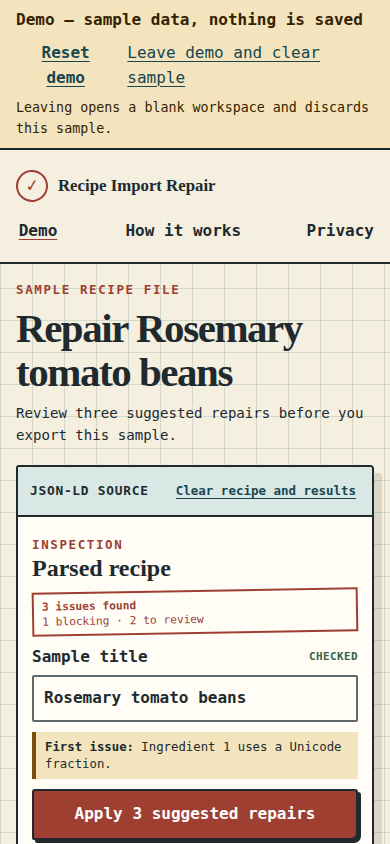
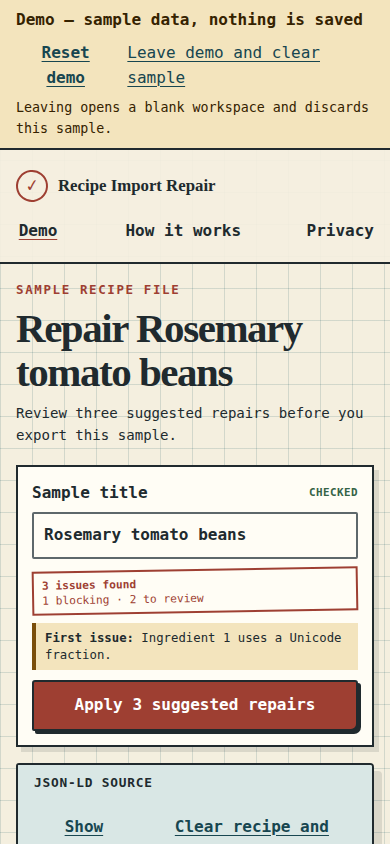
fix: keep demo reading order accessible

Changed region(s): [[0.0308, 0.5545, 0.9846, 1.0]]

diff --git a/src/main.ts b/src/main.ts
@@ -352,8 +352,10 @@ function homePage(): string {
 }
 
 function demoPage(): string {
+  const compactDemo = window.matchMedia('(max-width: 680px)').matches;
   return `<main id="main" class="demo-main">
     <section class="demo-heading"><p class="eyebrow">Sample recipe file</p><h1>Repair Rosemary tomato beans</h1><p>Review three suggested repairs before you export this sample.</p></section>
+    ${compactDemo ? demoQuickStart() : ''}
     ${workbench(true)}
   </main>`;
 }
@@ -379,6 +381,17 @@ function demoIssuePreview(): string {
   const firstIssue = issues[0];
   if (!firstIssue) return '';
   return `<p class="demo-issue-preview"><strong>First issue:</strong> ${escapeHtml(firstIssue.message)}</p>`;
+}
+
+function demoQuickStart(): string {
+  if (!recipe) return '';
+  const availableRepairs = issues.filter((item) => item.repair).length;
+  return `<section class="demo-quick-start" aria-label="Sample recipe status">
+    <label class="field full"><span>Sample title ${fieldStatus('title')}</span><input id="demo-title" data-field="title" value="${escapeHtml(recipe.title)}" /></label>
+    ${issueSummary()}
+    ${demoIssuePreview()}
+    <button class="button proof-button" data-action="apply-all" ${availableRepairs ? '' : 'disabled'}>Apply ${availableRepairs} suggested ${availableRepairs === 1 ? 'repair' : 'repairs'}</button>
+  </section>`;
 }
 
 function fieldStatus(field: string): string {
@@ -435,7 +448,7 @@ function workbench(expanded: boolean): string {
       </div>
       <div class="result-panel">
         <div class="panel-heading result-heading"><div><p class="step-label">Inspection</p><${panelHeading}>Parsed recipe</${panelHeading}></div>${recipe ? issueSummary() : ''}</div>
-        ${recipe ? `${expanded ? `<label class="field full demo-title-field"><span>Sample title ${fieldStatus('title')}</span><input id="demo-title" data-field="title" value="${escapeHtml(recipe.title)}" /></label>${demoIssuePreview()}` : ''}<div class="issue-actions"><button class="button proof-button" data-action="apply-all" ${availableRepairs ? '' : 'disabled'}>Apply ${availableRepairs} suggested ${availableRepairs === 1 ? 'repair' : 'repairs'}</button><button class="button secondary" data-action="undo" ${editHistory.length ? '' : 'disabled'}>Undo last change</button></div>${issueList()}${editor(!expanded)}<div class="export-strip"><div class="export-copy"><strong>Download repaired recipe</strong><label for="export-format">Export format</label><select id="export-format" data-export-format><option value="jsonld"${exportFormat === 'jsonld' ? ' selected' : ''}>Recipe JSON-LD (.json)</option><option value="original"${exportFormat === 'original' ? ' selected' : ''}>Repaired original format (${format})</option><option value="details"${exportFormat === 'details' ? ' selected' : ''}>Repair details (.json)</option></select><span>Recipe JSON-LD uses Schema.org Recipe fields. Repaired original keeps this file's ${format} format.</span>${canExport(recipe) ? '' : '<span>Fix blocking issues before export.</span>'}</div><button class="button export-button" data-action="export" ${canExport(recipe) ? '' : 'disabled'}>Download selected file</button></div>${repairLog.length ? `<details class="repair-log"><summary>Repair log (${repairLog.length})</summary><ol>${repairLog.map((item) => `<li>${escapeHtml(item)}</li>`).join('')}</ol></details>` : ''}` : `<div class="empty-sheet"><span aria-hidden="true">↳</span><h3>Your parsed fields will appear here</h3><p>Paste recipe text or choose a file. Then inspect it.</p></div>`}
+        ${recipe ? `<div class="issue-actions"><button class="button proof-button${expanded ? ' detail-apply' : ''}" data-action="apply-all" ${availableRepairs ? '' : 'disabled'}>Apply ${availableRepairs} suggested ${availableRepairs === 1 ? 'repair' : 'repairs'}</button><button class="button secondary" data-action="undo" ${editHistory.length ? '' : 'disabled'}>Undo last change</button></div>${issueList()}${editor()}<div class="export-strip"><div class="export-copy"><strong>Download repaired recipe</strong><label for="export-format">Export format</label><select id="export-format" data-export-format><option value="jsonld"${exportFormat === 'jsonld' ? ' selected' : ''}>Recipe JSON-LD (.json)</option><option value="original"${exportFormat === 'original' ? ' selected' : ''}>Repaired original format (${format})</option><option value="details"${exportFormat === 'details' ? ' selected' : ''}>Repair details (.json)</option></select><span>Recipe JSON-LD uses Schema.org Recipe fields. Repaired original keeps this file's ${format} format.</span>${canExport(recipe) ? '' : '<span>Fix blocking issues before export.</span>'}</div><button class="button export-button" data-action="export" ${canExport(recipe) ? '' : 'disabled'}>Download selected file</button></div>${repairLog.length ? `<details class="repair-log"><summary>Repair log (${repairLog.length})</summary><ol>${repairLog.map((item) => `<li>${escapeHtml(item)}</li>`).join('')}</ol></details>` : ''}` : `<div class="empty-sheet"><span aria-hidden="true">↳</span><h3>Your parsed fields will appear here</h3><p>Paste recipe text or choose a file. Then inspect it.</p></div>`}
       </div>
     </div>
   </section>`;
@@ -560,6 +573,7 @@ app.addEventListener('change', async (event) => {
 window.addEventListener('popstate', () => changeRoute('pop'));
 window.addEventListener('online', () => { isOffline = false; render(); });
 window.addEventListener('offline', () => { isOffline = true; render(); });
+window.matchMedia('(max-width: 680px)').addEventListener('change', () => { if (route === 'demo') render(); });
 
 if ('serviceWorker' in navigator && import.meta.env.PROD) {
   window.addEventListener('load', () => navigator.serviceWorker.register('/service-worker.js').catch(() => undefined));

diff --git a/src/styles.css b/src/styles.css
@@ -175,8 +175,8 @@ summary { display: inline-flex; min-height: 44px; align-items: center; color: va
 .demo-main { max-width: 1440px; margin: 0 auto; padding: 64px clamp(16px, 5vw, 80px); }
 .demo-heading { margin-bottom: 36px; }
 .demo-heading h1 { margin-bottom: 16px; font-size: clamp(2.4rem, 5vw, 4.8rem); }
-.demo-title-field { margin: 0 0 14px; }
 .demo-issue-preview { display: none; }
+.demo-quick-start { display: none; }
 .prose-page { width: min(850px, calc(100% - 32px)); min-height: 65vh; margin: 0 auto; padding: 72px 0 96px; }
 .prose-page h1 { font-size: clamp(2.5rem, 6vw, 4.8rem); }
 .prose-page section { max-width: 68ch; margin-top: 48px; padding-left: 24px; border-left: 3px solid var(--proof); }
@@ -218,19 +218,10 @@ summary { display: inline-flex; min-height: 44px; align-items: center; color: va
   .demo-heading { margin-bottom: 18px; }
   .demo-heading h1 { margin-bottom: 8px; font-size: clamp(2.05rem, 10.5vw, 2.7rem); }
   .demo-heading > p:last-child { margin-bottom: 0; font-size: 0.88rem; }
-  .workbench.expanded .bench-toolbar { align-items: center; flex-direction: row; gap: 8px; min-height: 48px; padding: 6px 12px; }
-  .workbench.expanded .toolbar-actions { margin-left: auto; }
-  .workbench.expanded .toolbar-actions [data-action="toggle-source"] { display: none; }
-  .workbench.expanded .toolbar-actions .text-button { min-height: 36px; font-size: 0.78rem; }
-  .workbench.expanded .result-panel { order: -1; }
-  .workbench.expanded .result-heading { gap: 8px; margin-bottom: 10px; }
-  .workbench.expanded .result-heading .step-label { margin-bottom: 2px; }
-  .workbench.expanded .status-summary { min-width: 0; padding: 5px 8px; font-size: 0.7rem; }
-  .workbench.expanded .demo-title-field { margin-bottom: 10px; }
-  .workbench.expanded .demo-issue-preview { display: block; margin: 0 0 10px; padding: 7px 9px; border-left: 4px solid var(--amber); background: var(--amber-soft); font-size: 0.77rem; line-height: 1.35; }
-  .workbench.expanded .issue-actions { gap: 8px; padding-bottom: 12px; }
-  .workbench.expanded .issue-actions .button { min-height: 44px; }
-  .workbench.expanded .issue-list { margin: 12px 0 24px; }
+  .demo-quick-start { display: grid; gap: 10px; margin-bottom: 16px; padding: 14px; border: 2px solid var(--ink); background: var(--paper-raised); box-shadow: 5px 5px 0 var(--shadow); }
+  .demo-quick-start .status-summary { min-width: 0; padding: 5px 8px; font-size: 0.7rem; }
+  .demo-quick-start .demo-issue-preview { display: block; margin: 0; padding: 7px 9px; border-left: 4px solid var(--amber); background: var(--amber-soft); font-size: 0.77rem; line-height: 1.35; }
+  .workbench.expanded .detail-apply { display: none; }
   .bench-toolbar, .panel-heading, .result-heading, .export-strip { align-items: stretch; flex-direction: column; }
   .toolbar-actions { justify-content: space-between; }
   .source-panel, .result-panel { padding: 18px 14px; }

diff --git a/tests/e2e/claims.spec.ts b/tests/e2e/claims.spec.ts
@@ -256,7 +256,7 @@ test('@claim:demo-sample-issues opens an isolated three-issue sample from the on
   expect(await viewportBottom('h1')).toBeLessThanOrEqual(844);
   expect(await viewportBottom('#demo-title')).toBeLessThanOrEqual(844);
   expect(await viewportBottom('.demo-issue-preview')).toBeLessThanOrEqual(844);
-  expect(await viewportBottom('[data-action="apply-all"]')).toBeLessThanOrEqual(844);
+  expect(await viewportBottom('.demo-quick-start [data-action="apply-all"]')).toBeLessThanOrEqual(844);
   await page.getByLabel('Sample title').fill('Rosemary tomato beans, edited');
   await page.getByLabel('Sample title').press('Tab');
   await expect(page.getByLabel('Sample title')).toHaveValue('Rosemary tomato beans, edited');
